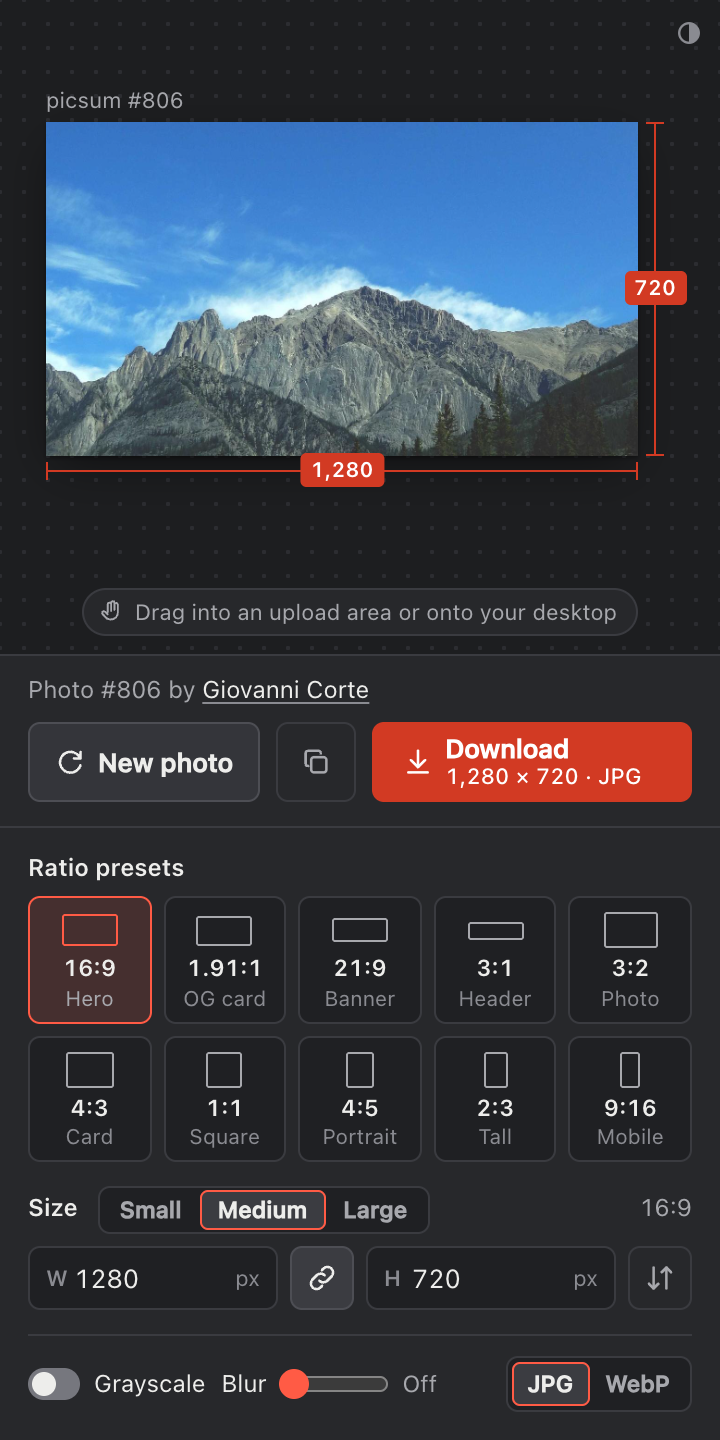
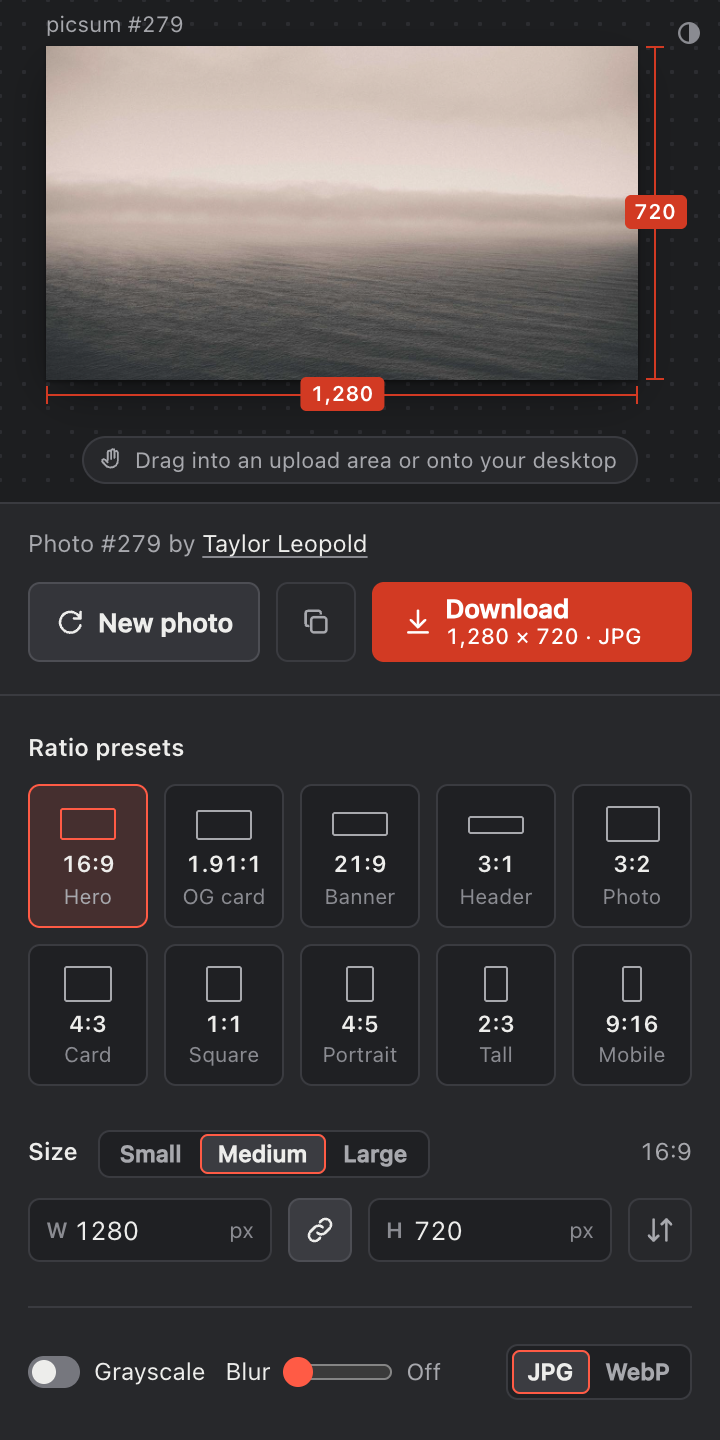
Refresh README screenshots and demo for the new spacing

diff --git a/README.md b/README.md
@@ -3,7 +3,7 @@
 A Chrome side-panel extension that generates placeholder photos from [Lorem Picsum](https://picsum.photos/) at an exact size, previews them, and lets you download the ones you like or drag them straight into a page's upload area.
 
 <p align="center">
-  <img src="docs/demo.gif" alt="Demo: clicking New photo in the Picsum Frame side panel loads a new 1,280 × 720 photo, which is then dragged into a page's Cover image upload area and shows up as picsum-719-1280x720.jpg" width="900">
+  <img src="docs/demo.gif" alt="Demo: clicking New photo in the Picsum Frame side panel loads a new 1,280 × 720 photo, which is then dragged into a page's Cover image upload area and shows up as picsum-795-1280x720.jpg" width="900">
 </p>
 
 <p align="center">
